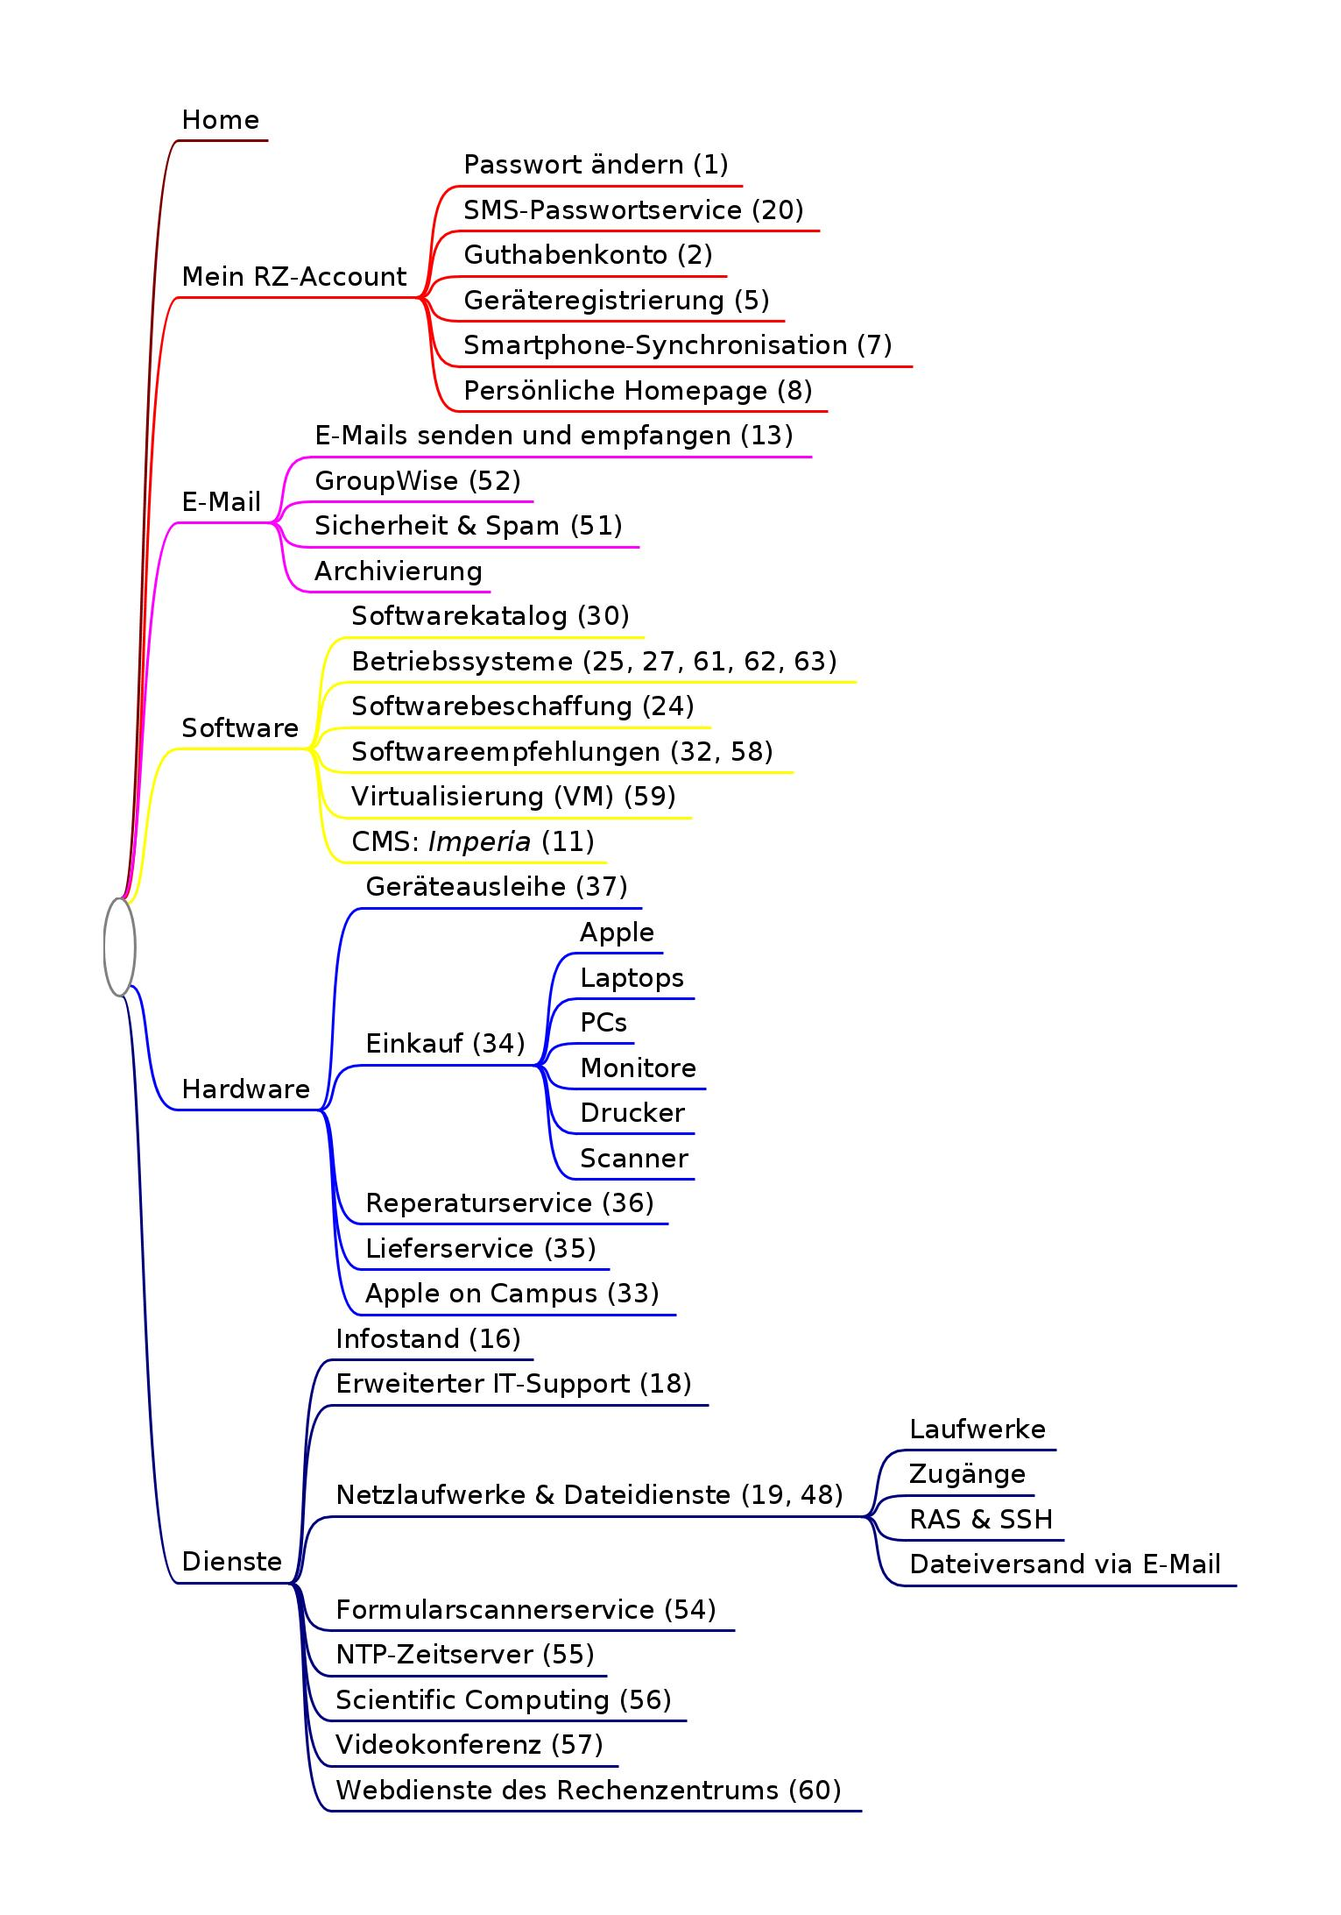
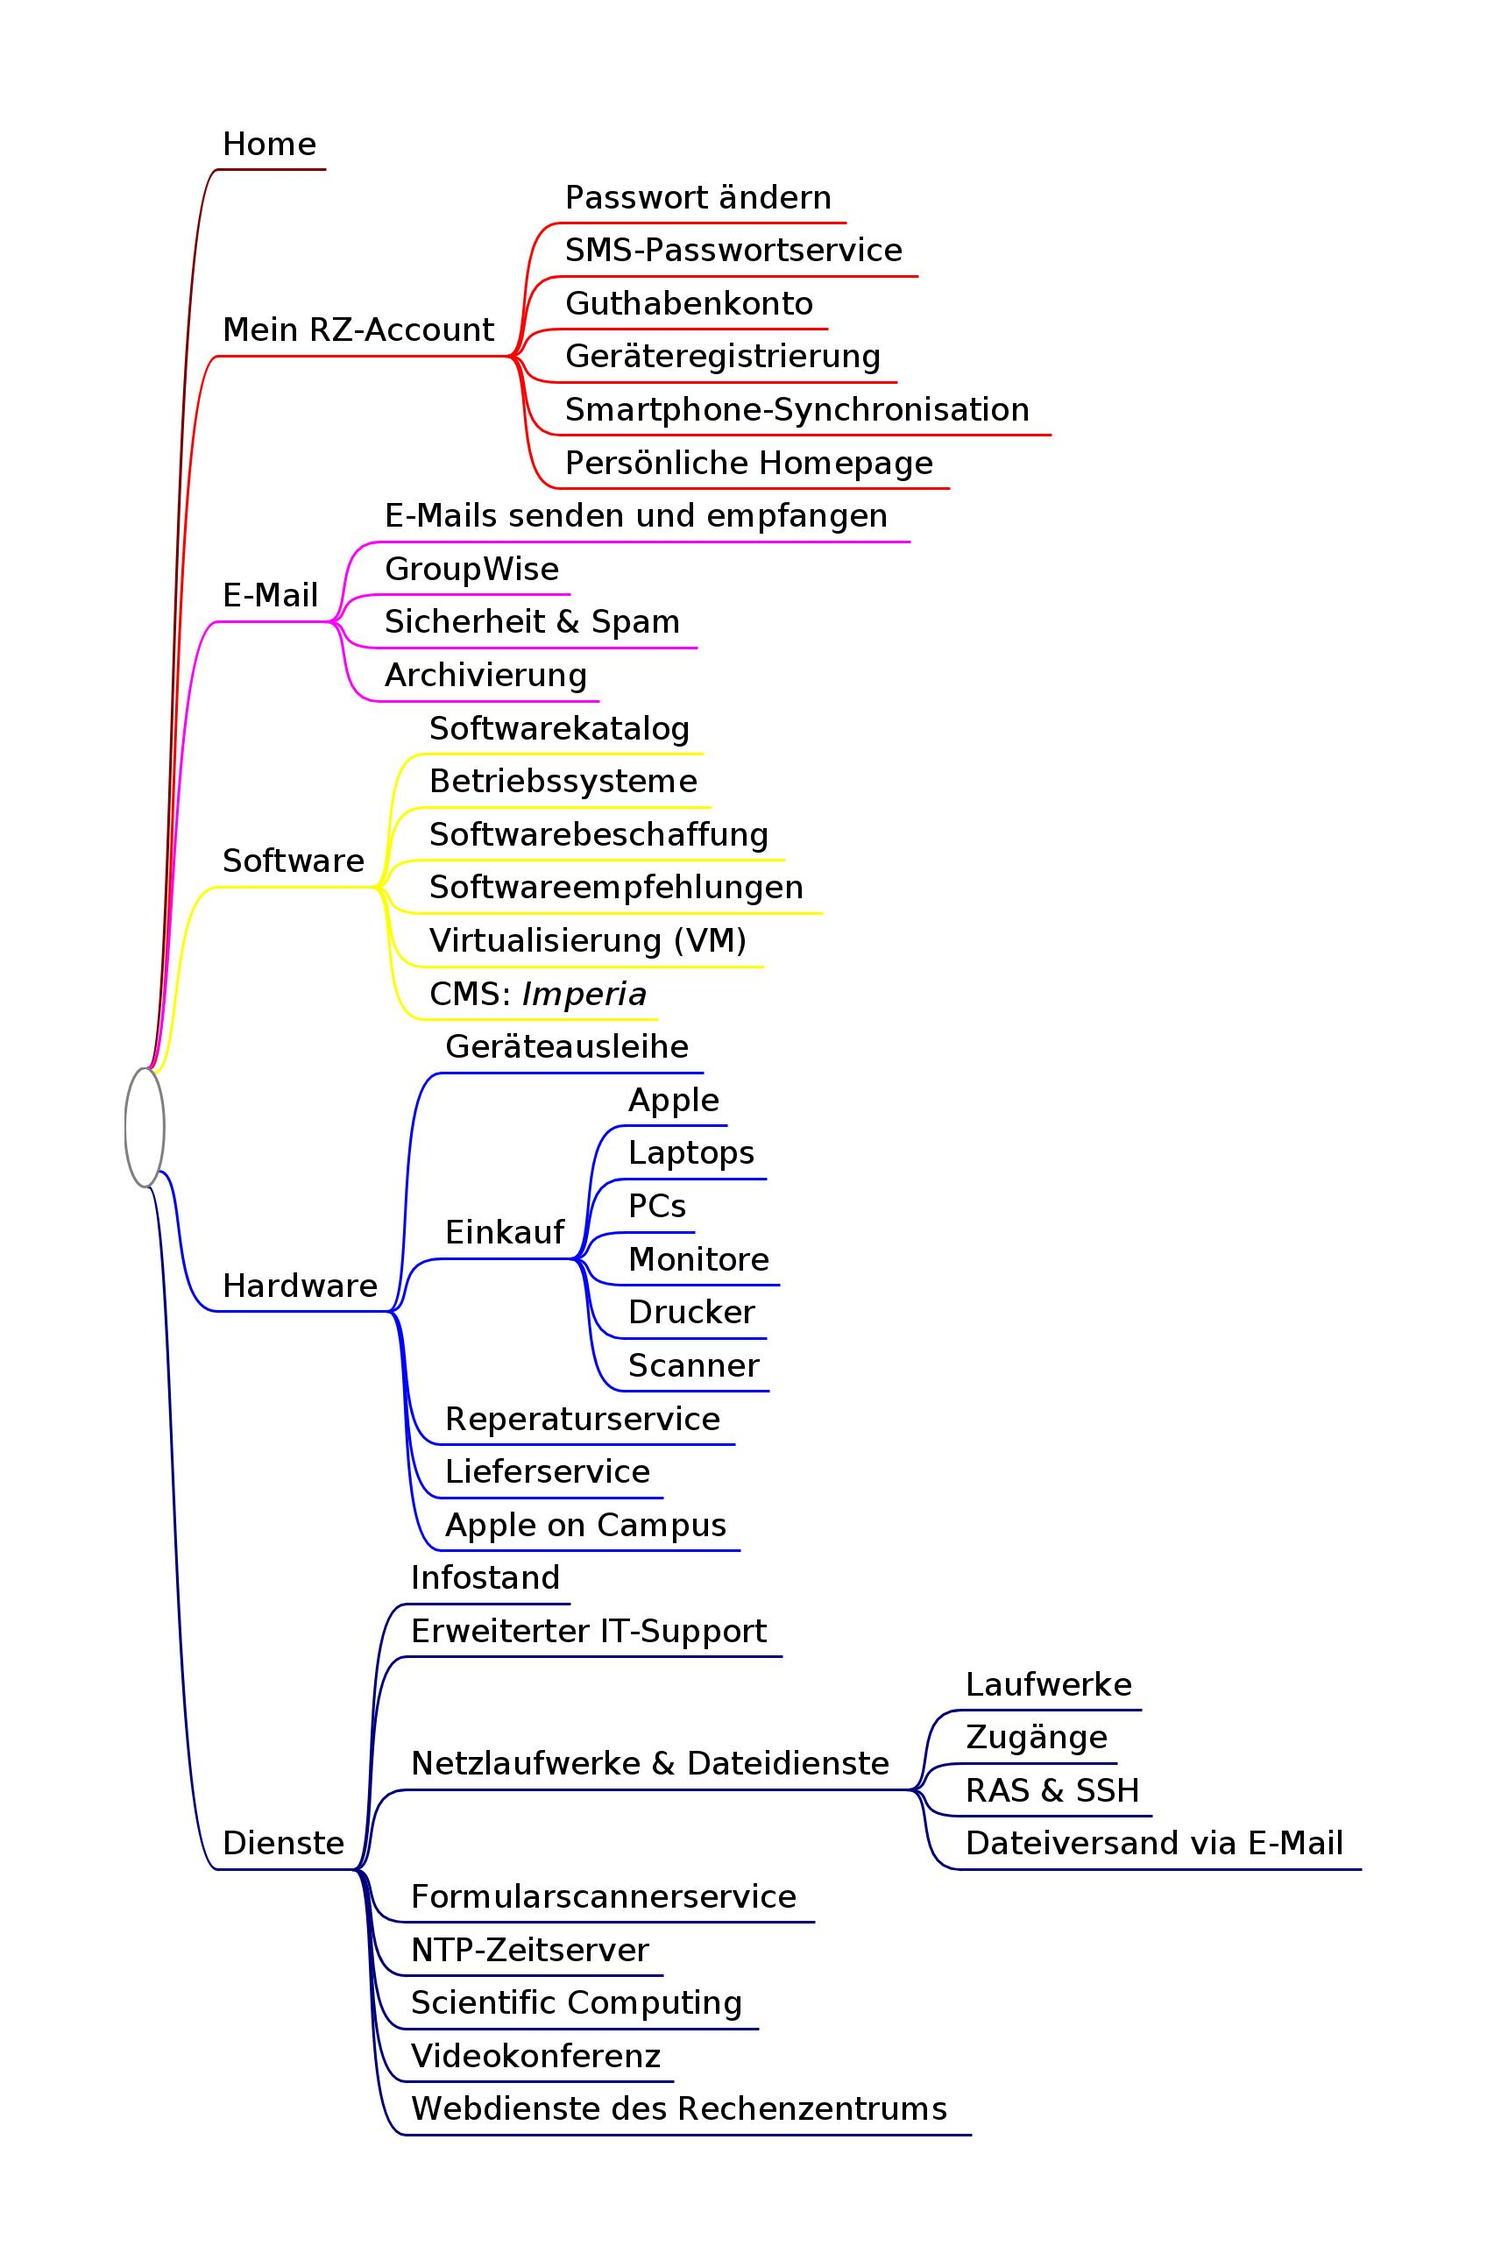
deleted IDs from items

Changed region(s): [[0.0614, 0.0622, 0.921, 0.9648], [0.1228, 0.0622, 0.2149, 0.0934]]

diff --git a/Prototyp/neue struktur.mm b/Prototyp/neue struktur.mm
@@ -1,6 +1,6 @@
 <map version="freeplane 1.3.0">
 <!--To view this file, download free mind mapping software Freeplane from http://freeplane.sourceforge.net -->
-<node TEXT="root" ID="ID_1723255651" CREATED="1283093380553" MODIFIED="1442301293450"><hook NAME="MapStyle" zoom="0.825">
+<node TEXT="" ID="ID_1723255651" CREATED="1283093380553" MODIFIED="1443614582027"><hook NAME="MapStyle" zoom="0.904">
     <properties show_icon_for_attributes="true" show_note_icons="true"/>
 
 <map_styles>
@@ -56,28 +56,28 @@
 </node>
 <node TEXT="Mein RZ-Account" POSITION="right" ID="ID_669248540" CREATED="1441869848084" MODIFIED="1441869857971">
 <edge COLOR="#ff0000"/>
-<node TEXT="Passwort &#xe4;ndern (1)" ID="ID_751792019" CREATED="1441869971630" MODIFIED="1441885954469"/>
-<node TEXT="SMS-Passwortservice (20)" ID="ID_576465163" CREATED="1441870019242" MODIFIED="1443613469396"/>
-<node TEXT="Guthabenkonto (2)" ID="ID_1940107942" CREATED="1441869983337" MODIFIED="1441885963930"/>
-<node TEXT="Ger&#xe4;teregistrierung (5)" ID="ID_1020460487" CREATED="1442299506462" MODIFIED="1442299524832"/>
-<node TEXT="Smartphone-Synchronisation (7)" ID="ID_1041095115" CREATED="1441869988999" MODIFIED="1441885996758"/>
-<node TEXT="Pers&#xf6;nliche Homepage (8)" ID="ID_468570011" CREATED="1441870000966" MODIFIED="1441884607649"/>
+<node TEXT="Passwort &#xe4;ndern" ID="ID_751792019" CREATED="1441869971630" MODIFIED="1443624542400"/>
+<node TEXT="SMS-Passwortservice" ID="ID_576465163" CREATED="1441870019242" MODIFIED="1443624544887"/>
+<node TEXT="Guthabenkonto" ID="ID_1940107942" CREATED="1441869983337" MODIFIED="1443624547113"/>
+<node TEXT="Ger&#xe4;teregistrierung" ID="ID_1020460487" CREATED="1442299506462" MODIFIED="1443624549607"/>
+<node TEXT="Smartphone-Synchronisation" ID="ID_1041095115" CREATED="1441869988999" MODIFIED="1443624551311"/>
+<node TEXT="Pers&#xf6;nliche Homepage" ID="ID_468570011" CREATED="1441870000966" MODIFIED="1443624552766"/>
 </node>
 <node TEXT="E-Mail" POSITION="right" ID="ID_1765525429" CREATED="1441869925215" MODIFIED="1441885850334">
 <edge COLOR="#ff00ff"/>
-<node TEXT="E-Mails senden und empfangen (13)" ID="ID_153571769" CREATED="1441870161782" MODIFIED="1442745320210"/>
-<node TEXT="GroupWise (52)" ID="ID_163120556" CREATED="1441874900557" MODIFIED="1442745327066"/>
-<node TEXT="Sicherheit &amp; Spam (51)" ID="ID_1440047222" CREATED="1441874898670" MODIFIED="1442745335856"/>
+<node TEXT="E-Mails senden und empfangen" ID="ID_153571769" CREATED="1441870161782" MODIFIED="1443624554610"/>
+<node TEXT="GroupWise" ID="ID_163120556" CREATED="1441874900557" MODIFIED="1443624558351"/>
+<node TEXT="Sicherheit &amp; Spam" ID="ID_1440047222" CREATED="1441874898670" MODIFIED="1443624559919"/>
 <node TEXT="Archivierung" ID="ID_1543295457" CREATED="1441887128537" MODIFIED="1441887131981"/>
 </node>
 <node TEXT="Software" POSITION="right" ID="ID_1890092100" CREATED="1441869931909" MODIFIED="1441869934117">
 <edge COLOR="#ffff00"/>
-<node TEXT="Softwarekatalog (30)" ID="ID_667733682" CREATED="1441871831716" MODIFIED="1441884772416"/>
-<node TEXT="Betriebssysteme (25, 27, 61, 62, 63)" ID="ID_1610309575" CREATED="1441889708181" MODIFIED="1442301931077"/>
-<node TEXT="Softwarebeschaffung (24)" ID="ID_965152581" CREATED="1441870448315" MODIFIED="1441890106738"/>
-<node TEXT="Softwareempfehlungen (32, 58)" ID="ID_1154819793" CREATED="1441871842737" MODIFIED="1441891118002"/>
-<node TEXT="Virtualisierung (VM) (59)" ID="ID_879663304" CREATED="1441875971298" MODIFIED="1441892010194"/>
-<node ID="ID_496886877" CREATED="1441870124410" MODIFIED="1441890994166"><richcontent TYPE="NODE">
+<node TEXT="Softwarekatalog" ID="ID_667733682" CREATED="1441871831716" MODIFIED="1443624562097"/>
+<node TEXT="Betriebssysteme" ID="ID_1610309575" CREATED="1441889708181" MODIFIED="1443624566032"/>
+<node TEXT="Softwarebeschaffung" ID="ID_965152581" CREATED="1441870448315" MODIFIED="1443624567747"/>
+<node TEXT="Softwareempfehlungen" ID="ID_1154819793" CREATED="1441871842737" MODIFIED="1443624569927"/>
+<node TEXT="Virtualisierung (VM)" ID="ID_879663304" CREATED="1441875971298" MODIFIED="1443624573127"/>
+<node ID="ID_496886877" CREATED="1441870124410" MODIFIED="1443624575372"><richcontent TYPE="NODE">
 
 <html>
   <head>
@@ -85,17 +85,18 @@
   </head>
   <body>
     <p>
-      CMS: <i>Imperia </i>(11)
+      CMS: <i>Imperia</i>
     </p>
   </body>
 </html>
+
 </richcontent>
 </node>
 </node>
 <node TEXT="Hardware" POSITION="right" ID="ID_189916393" CREATED="1441871853709" MODIFIED="1441871859718">
 <edge COLOR="#0000ff"/>
-<node TEXT="Ger&#xe4;teausleihe (37)" ID="ID_308391072" CREATED="1441872077121" MODIFIED="1441885027421"/>
-<node TEXT="Einkauf (34)" ID="ID_1460123355" CREATED="1441872042741" MODIFIED="1441892480970">
+<node TEXT="Ger&#xe4;teausleihe" ID="ID_308391072" CREATED="1441872077121" MODIFIED="1443624577129"/>
+<node TEXT="Einkauf" ID="ID_1460123355" CREATED="1441872042741" MODIFIED="1443624578491">
 <node TEXT="Apple" ID="ID_1015831479" CREATED="1441892324920" MODIFIED="1441892326777"/>
 <node TEXT="Laptops" ID="ID_801001285" CREATED="1441892321557" MODIFIED="1441892323099"/>
 <node TEXT="PCs" ID="ID_1813831580" CREATED="1441892318607" MODIFIED="1441892320918"/>
@@ -103,81 +104,78 @@
 <node TEXT="Drucker" ID="ID_1836600201" CREATED="1441892327478" MODIFIED="1441892328574"/>
 <node TEXT="Scanner" ID="ID_244453620" CREATED="1441892332302" MODIFIED="1441892333536"/>
 </node>
-<node TEXT="Reperaturservice (36)" ID="ID_940397624" CREATED="1441872059130" MODIFIED="1441892484395"/>
-<node TEXT="Lieferservice (35)" ID="ID_409237758" CREATED="1441872049124" MODIFIED="1441892487459"/>
-<node TEXT="Apple on Campus (33)" ID="ID_1914333919" CREATED="1441871982940" MODIFIED="1441892590915"/>
+<node TEXT="Reperaturservice" ID="ID_940397624" CREATED="1441872059130" MODIFIED="1443624581070"/>
+<node TEXT="Lieferservice" ID="ID_409237758" CREATED="1441872049124" MODIFIED="1443624587545"/>
+<node TEXT="Apple on Campus" ID="ID_1914333919" CREATED="1441871982940" MODIFIED="1443624589560"/>
 </node>
 <node TEXT="Dienste" POSITION="right" ID="ID_72266525" CREATED="1441869938096" MODIFIED="1441869939341">
 <edge COLOR="#00007c"/>
-<node TEXT="Infostand (16)" ID="ID_1779496599" CREATED="1441870175017" MODIFIED="1441884876458"/>
-<node TEXT="Erweiterter IT-Support (18)" ID="ID_916056347" CREATED="1441870205073" MODIFIED="1441884881137"/>
-<node TEXT="Netzlaufwerke &amp; Dateidienste (19, 48)" ID="ID_474802615" CREATED="1441870219416" MODIFIED="1442745981466">
+<node TEXT="Infostand" ID="ID_1779496599" CREATED="1441870175017" MODIFIED="1443624591895"/>
+<node TEXT="Erweiterter IT-Support" ID="ID_916056347" CREATED="1441870205073" MODIFIED="1443624595449"/>
+<node TEXT="Netzlaufwerke &amp; Dateidienste" ID="ID_474802615" CREATED="1441870219416" MODIFIED="1443624598249">
 <node TEXT="Laufwerke" ID="ID_1515953802" CREATED="1441893453691" MODIFIED="1441893455743"/>
 <node TEXT="Zug&#xe4;nge" ID="ID_595397903" CREATED="1441893457628" MODIFIED="1441893461188"/>
 <node TEXT="RAS &amp; SSH" ID="ID_371675725" CREATED="1441893461815" MODIFIED="1441893471028"/>
 <node TEXT="Dateiversand via E-Mail" ID="ID_811637180" CREATED="1441893473708" MODIFIED="1441893479436"/>
 </node>
-<node TEXT="Formularscannerservice (54)" ID="ID_1272693274" CREATED="1441875420042" MODIFIED="1441884924340"/>
-<node TEXT="NTP-Zeitserver (55)" ID="ID_1943471488" CREATED="1441875644041" MODIFIED="1441884929630"/>
-<node TEXT="Scientific Computing (56)" ID="ID_1866334653" CREATED="1441875830194" MODIFIED="1442745497817"/>
-<node TEXT="Videokonferenz (57)" ID="ID_590203619" CREATED="1441875864118" MODIFIED="1441884939140"/>
-<node TEXT="Webdienste des Rechenzentrums (60)" ID="ID_1806943678" CREATED="1441876079081" MODIFIED="1441884944455"/>
-</node>
-<node TEXT="Diese Struktur veranschaulicht den endg&#xfc;ltigen Aufbau&#xa;des Prototyps. In Klammern stehen jeweilis die IDs der&#xa;Begriffe aus dem Card Sorting (siehe die Datei&#xa;&quot;zuweisung begriffe-kategorien.pdf&quot;)." LOCALIZED_STYLE_REF="defaultstyle.floating" POSITION="right" ID="ID_1565481079" CREATED="1441886785215" MODIFIED="1441886948155" HGAP="-468" VSHIFT="-3">
-<hook NAME="FreeNode"/>
+<node TEXT="Formularscannerservice" ID="ID_1272693274" CREATED="1441875420042" MODIFIED="1443624609583"/>
+<node TEXT="NTP-Zeitserver" ID="ID_1943471488" CREATED="1441875644041" MODIFIED="1443624611737"/>
+<node TEXT="Scientific Computing" ID="ID_1866334653" CREATED="1441875830194" MODIFIED="1443624614976"/>
+<node TEXT="Videokonferenz" ID="ID_590203619" CREATED="1441875864118" MODIFIED="1443624616607"/>
+<node TEXT="Webdienste des Rechenzentrums" ID="ID_1806943678" CREATED="1441876079081" MODIFIED="1443624617967"/>
 </node>
 <node TEXT="Drucken &amp; Fax" POSITION="right" ID="ID_1629054648" CREATED="1441869921196" MODIFIED="1442745572514">
 <edge COLOR="#00ff00"/>
-<node TEXT="Verf&#xfc;gbare Drucker (3)" ID="ID_1857720403" CREATED="1441870042651" MODIFIED="1441884619471"/>
-<node TEXT="WebPrint (4)" ID="ID_1778042055" CREATED="1441870054716" MODIFIED="1441884623407"/>
-<node TEXT="Fax (53)" ID="ID_394215921" CREATED="1441875434587" MODIFIED="1441884636228"/>
-<node TEXT="Posterdruck (77)" ID="ID_1818670864" CREATED="1441878037201" MODIFIED="1441884640684"/>
+<node TEXT="Verf&#xfc;gbare Drucker" ID="ID_1857720403" CREATED="1441870042651" MODIFIED="1443624619479"/>
+<node TEXT="WebPrint" ID="ID_1778042055" CREATED="1441870054716" MODIFIED="1443624620743"/>
+<node TEXT="Fax" ID="ID_394215921" CREATED="1441875434587" MODIFIED="1443624622767"/>
+<node TEXT="Posterdruck" ID="ID_1818670864" CREATED="1441878037201" MODIFIED="1443624625418"/>
 </node>
 <node TEXT="WLAN &amp; Internetzugang" POSITION="right" ID="ID_770433897" CREATED="1441869940664" MODIFIED="1442745576272">
 <edge COLOR="#007c00"/>
-<node TEXT="WLAN-Nutzung (22)" ID="ID_1245377829" CREATED="1441870260757" MODIFIED="1442745953172"/>
-<node TEXT="VPN (21)" ID="ID_943488088" CREATED="1441870234732" MODIFIED="1441884912826"/>
-<node TEXT="Internet im Wohnheim (17)" ID="ID_1379046742" CREATED="1441870192615" MODIFIED="1441884968013"/>
-<node TEXT="Digitale Zertifikate (50)" ID="ID_1288853056" CREATED="1441874816992" MODIFIED="1441884994689"/>
+<node TEXT="WLAN-Nutzung" ID="ID_1245377829" CREATED="1441870260757" MODIFIED="1443624627014"/>
+<node TEXT="VPN" ID="ID_943488088" CREATED="1441870234732" MODIFIED="1443624628502"/>
+<node TEXT="Internet im Wohnheim" ID="ID_1379046742" CREATED="1441870192615" MODIFIED="1443624630027"/>
+<node TEXT="Digitale Zertifikate" ID="ID_1288853056" CREATED="1441874816992" MODIFIED="1443624631840"/>
 </node>
-<node TEXT="CIP-Pools (10, 39)" POSITION="right" ID="ID_1144884299" CREATED="1441869929468" MODIFIED="1442303388069">
+<node TEXT="CIP-Pools" POSITION="right" ID="ID_1144884299" CREATED="1441869929468" MODIFIED="1443624636514">
 <edge COLOR="#00ffff"/>
 <node TEXT="Anleitungen" ID="ID_172390256" CREATED="1442303396920" MODIFIED="1442303399923"/>
 <node TEXT="Ausstattung" ID="ID_1205824592" CREATED="1442303400374" MODIFIED="1442303405101"/>
-<node TEXT="Schadensmeldungen (38)" ID="ID_1359084573" CREATED="1441872090408" MODIFIED="1442303426100"/>
+<node TEXT="Schadensmeldungen" ID="ID_1359084573" CREATED="1441872090408" MODIFIED="1443624639382"/>
 </node>
 <node TEXT="Lehre &amp; Fortbildung" POSITION="right" ID="ID_1085113772" CREATED="1441872426119" MODIFIED="1442745640448">
 <edge COLOR="#00ff00"/>
-<node TEXT="Computergest&#xfc;tzte Pr&#xfc;fungen (40)" ID="ID_1694458829" CREATED="1441872432662" MODIFIED="1441885084830"/>
-<node TEXT="GRIPS (41)" ID="ID_1590563630" CREATED="1441872443409" MODIFIED="1441885095893"/>
-<node TEXT="IT-Fortbildung f&#xfc;r Bedienstete (42)" ID="ID_165407253" CREATED="1441873778590" MODIFIED="1441885101802"/>
-<node TEXT="IT-Ausbildung f&#xfc;r Studierende (44)" ID="ID_1285757763" CREATED="1441874046473" MODIFIED="1443613956524"/>
-<node TEXT="Mediathek (43)" ID="ID_1888791027" CREATED="1441873972219" MODIFIED="1442745662944"/>
-<node TEXT="Aufzeichnung von Vorlesungen (45)" ID="ID_902096288" CREATED="1441874063843" MODIFIED="1441885132671"/>
-<node TEXT="NiceDesign4KMU (46)" ID="ID_1067593615" CREATED="1441874081277" MODIFIED="1442745686089"/>
-<node TEXT="Science@Lunch (47)" ID="ID_741542397" CREATED="1441874086508" MODIFIED="1442745678195"/>
+<node TEXT="Computergest&#xfc;tzte Pr&#xfc;fungen" ID="ID_1694458829" CREATED="1441872432662" MODIFIED="1443624641063"/>
+<node TEXT="GRIPS" ID="ID_1590563630" CREATED="1441872443409" MODIFIED="1443624643803"/>
+<node TEXT="IT-Fortbildung f&#xfc;r Bedienstete" ID="ID_165407253" CREATED="1441873778590" MODIFIED="1443624645617"/>
+<node TEXT="IT-Ausbildung f&#xfc;r Studierende" ID="ID_1285757763" CREATED="1441874046473" MODIFIED="1443624647639"/>
+<node TEXT="Mediathek" ID="ID_1888791027" CREATED="1441873972219" MODIFIED="1443624649255"/>
+<node TEXT="Aufzeichnung von Vorlesungen" ID="ID_902096288" CREATED="1441874063843" MODIFIED="1443624650690"/>
+<node TEXT="NiceDesign4KMU" ID="ID_1067593615" CREATED="1441874081277" MODIFIED="1443624652663"/>
+<node TEXT="Science@Lunch" ID="ID_741542397" CREATED="1441874086508" MODIFIED="1443624656487"/>
 </node>
 <node TEXT="Verwaltung" POSITION="right" ID="ID_542155170" CREATED="1441870395125" MODIFIED="1441877221942">
 <edge COLOR="#ff0000"/>
-<node TEXT="Workgroupmanager (23)" ID="ID_1250960717" CREATED="1441870403295" MODIFIED="1441885033339"/>
-<node TEXT="Formulare (15)" ID="ID_1038458082" CREATED="1441869953276" MODIFIED="1441885054325"/>
-<node TEXT="Rechtliches (73)" ID="ID_259511889" CREATED="1441877177137" MODIFIED="1441885061058"/>
-<node TEXT="Benutzersuche (75)" ID="ID_789233478" CREATED="1441878015738" MODIFIED="1441885068029"/>
-<node TEXT="Benutzerantr&#xe4;ge (76)" ID="ID_267688333" CREATED="1441878018865" MODIFIED="1441885071673"/>
+<node TEXT="Workgroupmanager" ID="ID_1250960717" CREATED="1441870403295" MODIFIED="1443624658135"/>
+<node TEXT="Formulare" ID="ID_1038458082" CREATED="1441869953276" MODIFIED="1443624660062"/>
+<node TEXT="Rechtliches" ID="ID_259511889" CREATED="1441877177137" MODIFIED="1443624661663"/>
+<node TEXT="Benutzersuche" ID="ID_789233478" CREATED="1441878015738" MODIFIED="1443624663263"/>
+<node TEXT="Benutzerantr&#xe4;ge" ID="ID_267688333" CREATED="1441878018865" MODIFIED="1443624664841"/>
 </node>
 <node TEXT="&#xdc;ber uns" POSITION="right" ID="ID_798299294" CREATED="1441876838588" MODIFIED="1441876840961">
 <edge COLOR="#ff00ff"/>
-<node TEXT="Kontakt (64)" ID="ID_1809245446" CREATED="1441876842786" MODIFIED="1441885158158"/>
-<node TEXT="Ausbildung am Rechenzentrum (65)" ID="ID_1168850955" CREATED="1441876880743" MODIFIED="1441885168549"/>
-<node TEXT="Mitarbeiter (66)" ID="ID_1198750952" CREATED="1441876892893" MODIFIED="1441885172360"/>
-<node TEXT="Anfahrt &amp; Lagepl&#xe4;ne (67)" ID="ID_220303747" CREATED="1441876912085" MODIFIED="1442745988019"/>
-<node TEXT="Newsletter (RZettel) (69)" ID="ID_1197745464" CREATED="1441877059224" MODIFIED="1442745819132"/>
-<node TEXT="Stellenausschreibungen (68)" ID="ID_852268081" CREATED="1441877054692" MODIFIED="1441885183485"/>
-<node TEXT="Organisation (70)" ID="ID_298571698" CREATED="1441877071399" MODIFIED="1442746741389"/>
-<node TEXT="Jahresberichte (71)" ID="ID_663718639" CREATED="1441877118363" MODIFIED="1441885207798"/>
-<node TEXT="Berichte zur Verwendung von Studienbeitr&#xe4;gen (72)" ID="ID_14775159" CREATED="1441877124304" MODIFIED="1441885212878"/>
+<node TEXT="Kontakt" ID="ID_1809245446" CREATED="1441876842786" MODIFIED="1443624666863"/>
+<node TEXT="Ausbildung am Rechenzentrum" ID="ID_1168850955" CREATED="1441876880743" MODIFIED="1443624668736"/>
+<node TEXT="Mitarbeiter" ID="ID_1198750952" CREATED="1441876892893" MODIFIED="1443624670239"/>
+<node TEXT="Anfahrt &amp; Lagepl&#xe4;ne" ID="ID_220303747" CREATED="1441876912085" MODIFIED="1443624671799"/>
+<node TEXT="Newsletter (RZettel)" ID="ID_1197745464" CREATED="1441877059224" MODIFIED="1443624673319"/>
+<node TEXT="Stellenausschreibungen" ID="ID_852268081" CREATED="1441877054692" MODIFIED="1443624675135"/>
+<node TEXT="Organisation" ID="ID_298571698" CREATED="1441877071399" MODIFIED="1443624676954"/>
+<node TEXT="Jahresberichte" ID="ID_663718639" CREATED="1441877118363" MODIFIED="1443624678639"/>
+<node TEXT="Berichte zur Verwendung von Studienbeitr&#xe4;gen" ID="ID_14775159" CREATED="1441877124304" MODIFIED="1443624680632"/>
 </node>
-<node TEXT="FAQ (14)" POSITION="right" ID="ID_703933153" CREATED="1441869934333" MODIFIED="1441884870157">
+<node TEXT="FAQ" POSITION="right" ID="ID_703933153" CREATED="1441869934333" MODIFIED="1443624682879">
 <edge COLOR="#7c0000"/>
 </node>
 </node>
